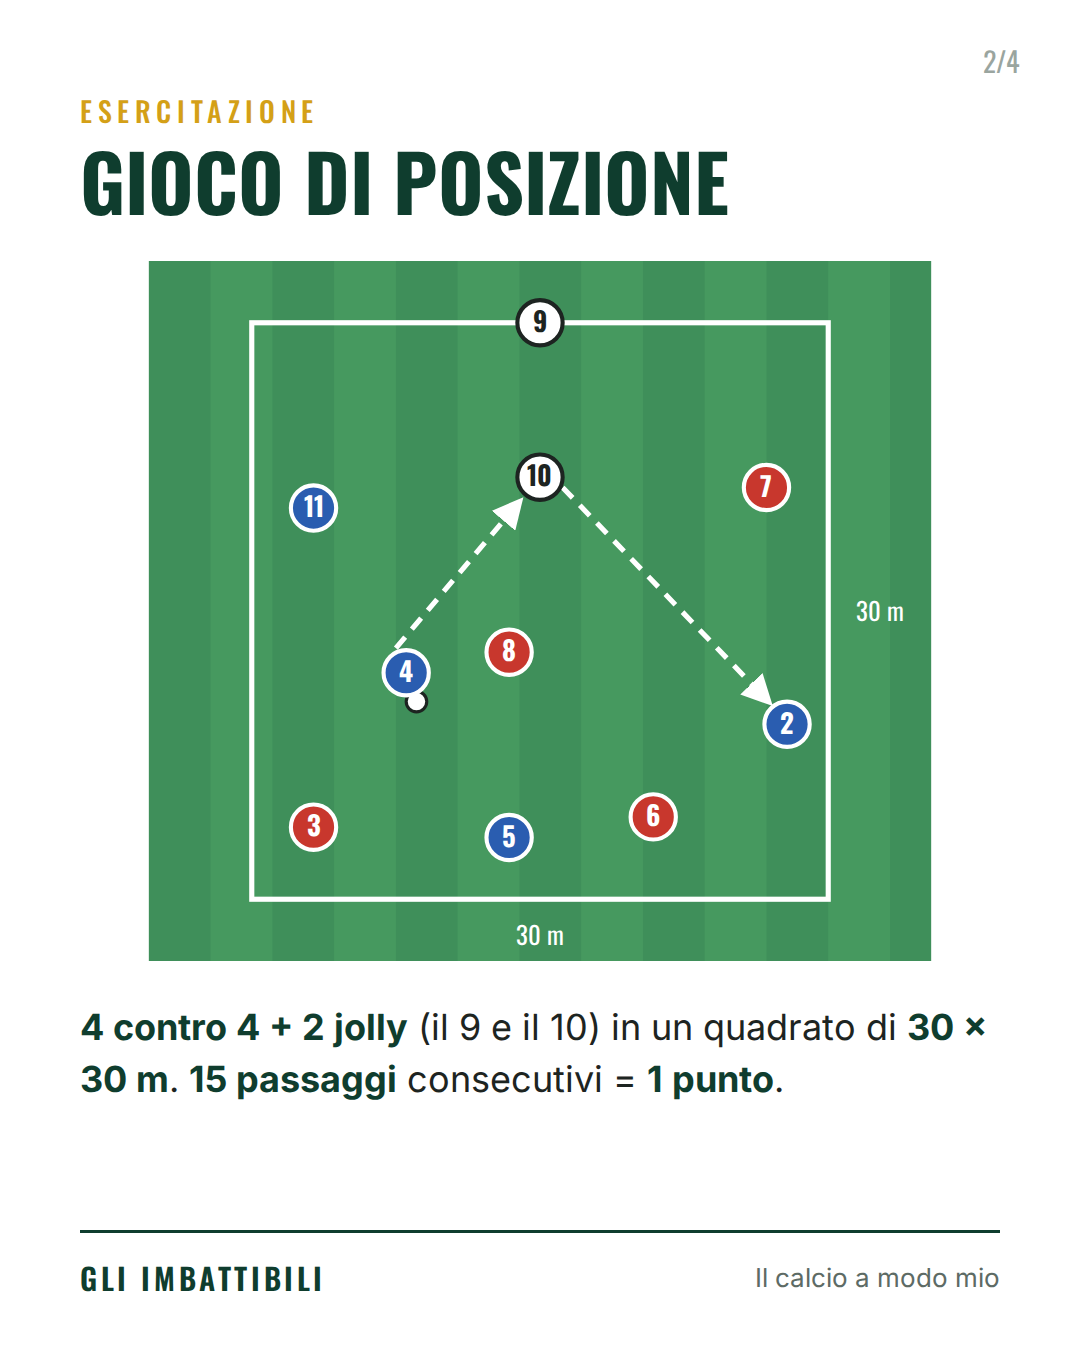
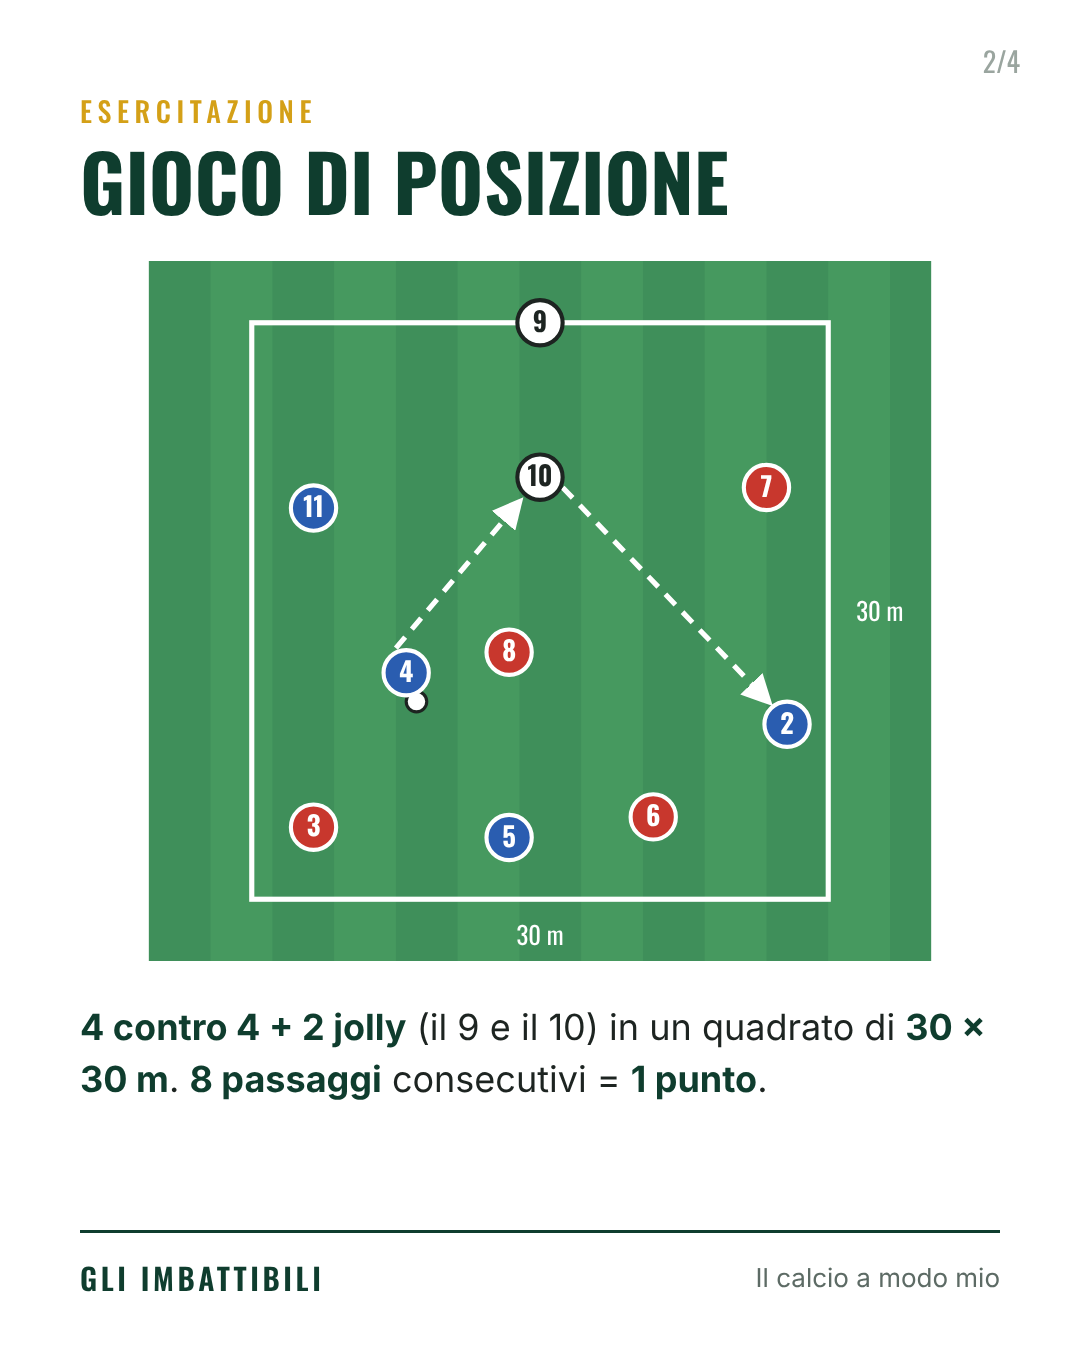
Post 3: 8 passaggi = 1 punto
Claude-Session: https://claude.ai/code/session_01C6jnkpg7j78s78of7Dc7AP

diff --git a/marketing/social/post-4x5.html b/marketing/social/post-4x5.html
@@ -168,7 +168,7 @@ h1, h2 { font-family: Oswald, sans-serif; font-weight: 700; text-transform: uppe
   </svg></div>
   <div class="txt">
     <div class="kick">Gli Imbattibili · dai quaderni del mister</div>
-    <h1>15 passaggi<span>= 1 punto</span></h1>
+    <h1>8 passaggi<span>= 1 punto</span></h1>
     <p class="sub">La Juniores che ha vinto il campionato <b>senza perdere una partita</b></p>
     <div class="scorri">Scorri →</div>
   </div>
@@ -188,7 +188,7 @@ h1, h2 { font-family: Oswald, sans-serif; font-weight: 700; text-transform: uppe
     <use href="#pB" x="140" y="120"/><text x="140" y="124.5" font-family="Oswald" font-size="13" font-weight="700" text-anchor="middle" fill="#fff">11</text><use href="#pB" x="185" y="200"/><text x="185" y="204.5" font-family="Oswald" font-size="13" font-weight="700" text-anchor="middle" fill="#fff">4</text><use href="#pB" x="370" y="225"/><text x="370" y="229.5" font-family="Oswald" font-size="13" font-weight="700" text-anchor="middle" fill="#fff">2</text><use href="#pB" x="235" y="280"/><text x="235" y="284.5" font-family="Oswald" font-size="13" font-weight="700" text-anchor="middle" fill="#fff">5</text>
     <use href="#pA" x="360" y="110"/><text x="360" y="114.5" font-family="Oswald" font-size="13" font-weight="700" text-anchor="middle" fill="#fff">7</text><use href="#pA" x="235" y="190"/><text x="235" y="194.5" font-family="Oswald" font-size="13" font-weight="700" text-anchor="middle" fill="#fff">8</text><use href="#pA" x="140" y="275"/><text x="140" y="279.5" font-family="Oswald" font-size="13" font-weight="700" text-anchor="middle" fill="#fff">3</text><use href="#pA" x="305" y="270"/><text x="305" y="274.5" font-family="Oswald" font-size="13" font-weight="700" text-anchor="middle" fill="#fff">6</text>
   </svg></div>
-  <p class="desc"><b>4 contro 4 + 2 jolly</b> (il 9 e il 10) in un quadrato di <b>30 × 30 m</b>. <b>15 passaggi</b> consecutivi = <b>1 punto</b>.</p>
+  <p class="desc"><b>4 contro 4 + 2 jolly</b> (il 9 e il 10) in un quadrato di <b>30 × 30 m</b>. <b>8 passaggi</b> consecutivi = <b>1 punto</b>.</p>
   <div class="marchio"><b>GLI IMBATTIBILI</b><span>Il calcio a modo mio</span></div>
 </section>
 <section class="slide int">

diff --git a/marketing/social/post-9x16.html b/marketing/social/post-9x16.html
@@ -168,7 +168,7 @@ h1, h2 { font-family: Oswald, sans-serif; font-weight: 700; text-transform: uppe
   </svg></div>
   <div class="txt">
     <div class="kick">Gli Imbattibili · dai quaderni del mister</div>
-    <h1>15 passaggi<span>= 1 punto</span></h1>
+    <h1>8 passaggi<span>= 1 punto</span></h1>
     <p class="sub">La Juniores che ha vinto il campionato <b>senza perdere una partita</b></p>
     <div class="scorri">Scorri →</div>
   </div>
@@ -188,7 +188,7 @@ h1, h2 { font-family: Oswald, sans-serif; font-weight: 700; text-transform: uppe
     <use href="#pB" x="140" y="120"/><text x="140" y="124.5" font-family="Oswald" font-size="13" font-weight="700" text-anchor="middle" fill="#fff">11</text><use href="#pB" x="185" y="200"/><text x="185" y="204.5" font-family="Oswald" font-size="13" font-weight="700" text-anchor="middle" fill="#fff">4</text><use href="#pB" x="370" y="225"/><text x="370" y="229.5" font-family="Oswald" font-size="13" font-weight="700" text-anchor="middle" fill="#fff">2</text><use href="#pB" x="235" y="280"/><text x="235" y="284.5" font-family="Oswald" font-size="13" font-weight="700" text-anchor="middle" fill="#fff">5</text>
     <use href="#pA" x="360" y="110"/><text x="360" y="114.5" font-family="Oswald" font-size="13" font-weight="700" text-anchor="middle" fill="#fff">7</text><use href="#pA" x="235" y="190"/><text x="235" y="194.5" font-family="Oswald" font-size="13" font-weight="700" text-anchor="middle" fill="#fff">8</text><use href="#pA" x="140" y="275"/><text x="140" y="279.5" font-family="Oswald" font-size="13" font-weight="700" text-anchor="middle" fill="#fff">3</text><use href="#pA" x="305" y="270"/><text x="305" y="274.5" font-family="Oswald" font-size="13" font-weight="700" text-anchor="middle" fill="#fff">6</text>
   </svg></div>
-  <p class="desc"><b>4 contro 4 + 2 jolly</b> (il 9 e il 10) in un quadrato di <b>30 × 30 m</b>. <b>15 passaggi</b> consecutivi = <b>1 punto</b>.</p>
+  <p class="desc"><b>4 contro 4 + 2 jolly</b> (il 9 e il 10) in un quadrato di <b>30 × 30 m</b>. <b>8 passaggi</b> consecutivi = <b>1 punto</b>.</p>
   <div class="marchio"><b>GLI IMBATTIBILI</b><span>Il calcio a modo mio</span></div>
 </section>
 <section class="slide int">

diff --git a/marketing/social/genera-post.py b/marketing/social/genera-post.py
@@ -115,10 +115,10 @@ POST = [
     ),
     dict(
         n=3, foto="allenamento-03.jpg", cop_schema=True,
-        gancio="15 passaggi<span>= 1 punto</span>",
+        gancio="8 passaggi<span>= 1 punto</span>",
         schema=schema_gioco,
         titolo2="Gioco di posizione",
-        testo2="<b>4 contro 4 + 2 jolly</b> (il 9 e il 10) in un quadrato di <b>30 × 30 m</b>. <b>15 passaggi</b> consecutivi = <b>1 punto</b>.",
+        testo2="<b>4 contro 4 + 2 jolly</b> (il 9 e il 10) in un quadrato di <b>30 × 30 m</b>. <b>8 passaggi</b> consecutivi = <b>1 punto</b>.",
         titolo3="Per renderlo difficile",
         punti=["Si gioca a <b>2 tocchi</b>",
                "I jolly hanno <b>1 solo tocco</b>",
